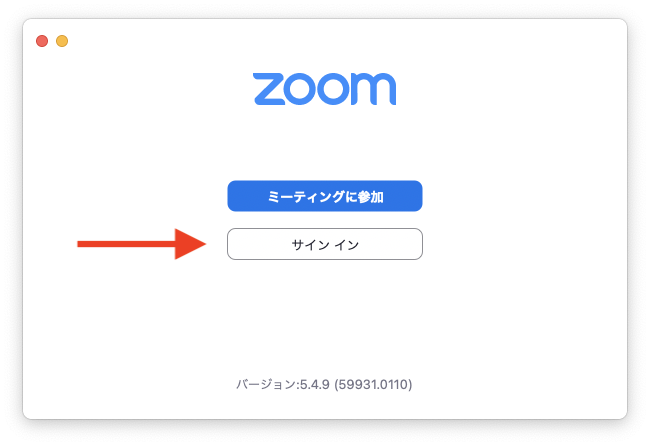
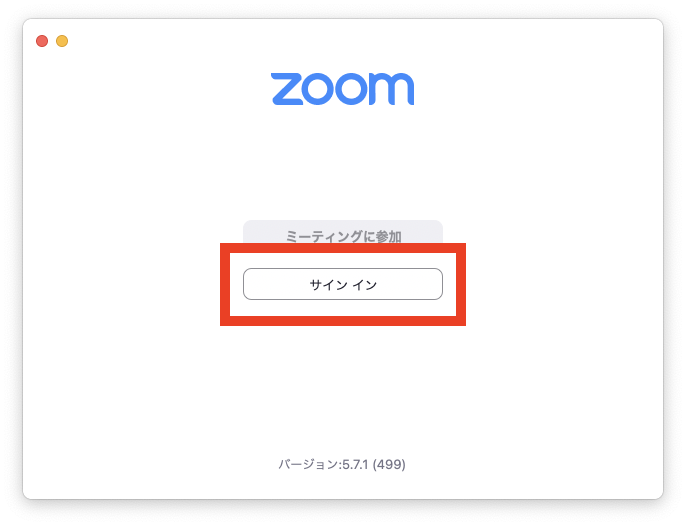
update zoom_signin

diff --git a/zoom/zoom_signin.md b/zoom/zoom_signin.md
@@ -31,8 +31,9 @@ title: Zoom サインイン方法
 
 1. Zoomアプリで「サインイン」ボタンを押すなどして，Zoomのサインイン画面を開いてください．
 ![](img/zoom_signin_4.png){:.medium}
-2. サインイン画面で，「SSO」または「SSOでサインイン」と書かれた文字を探して押してください（この画面のメールアドレス・パスワード欄にUTokyo Accountの情報を入力してもサインインできません）．
+2. サインイン画面で，「SSO」または「SSOでサインイン」と書かれた文字を探して押してください（アプリのバージョンによって異なります）．この画面のメールアドレス・パスワード欄にUTokyo Accountの情報を入力してもサインインできません．
 ![](img/zoom_signin_5.png){:.medium}
+![](img/zoom_signin_5_1.png){:.medium}
 3. 「会社のドメイン」欄に `u-tokyo-ac-jp` と入力してください（ `ac` の前後はピリオドではなくハイフンであることに注意してください）．
 ![](img/zoom_signin_6.png){:.medium}
 4. ブラウザに移動するので，UTokyo Accoutでサインインしてください（UTokyo Accountにサインイン済みの場合は，この画面を経ずにそのままサインインが完了します）．
